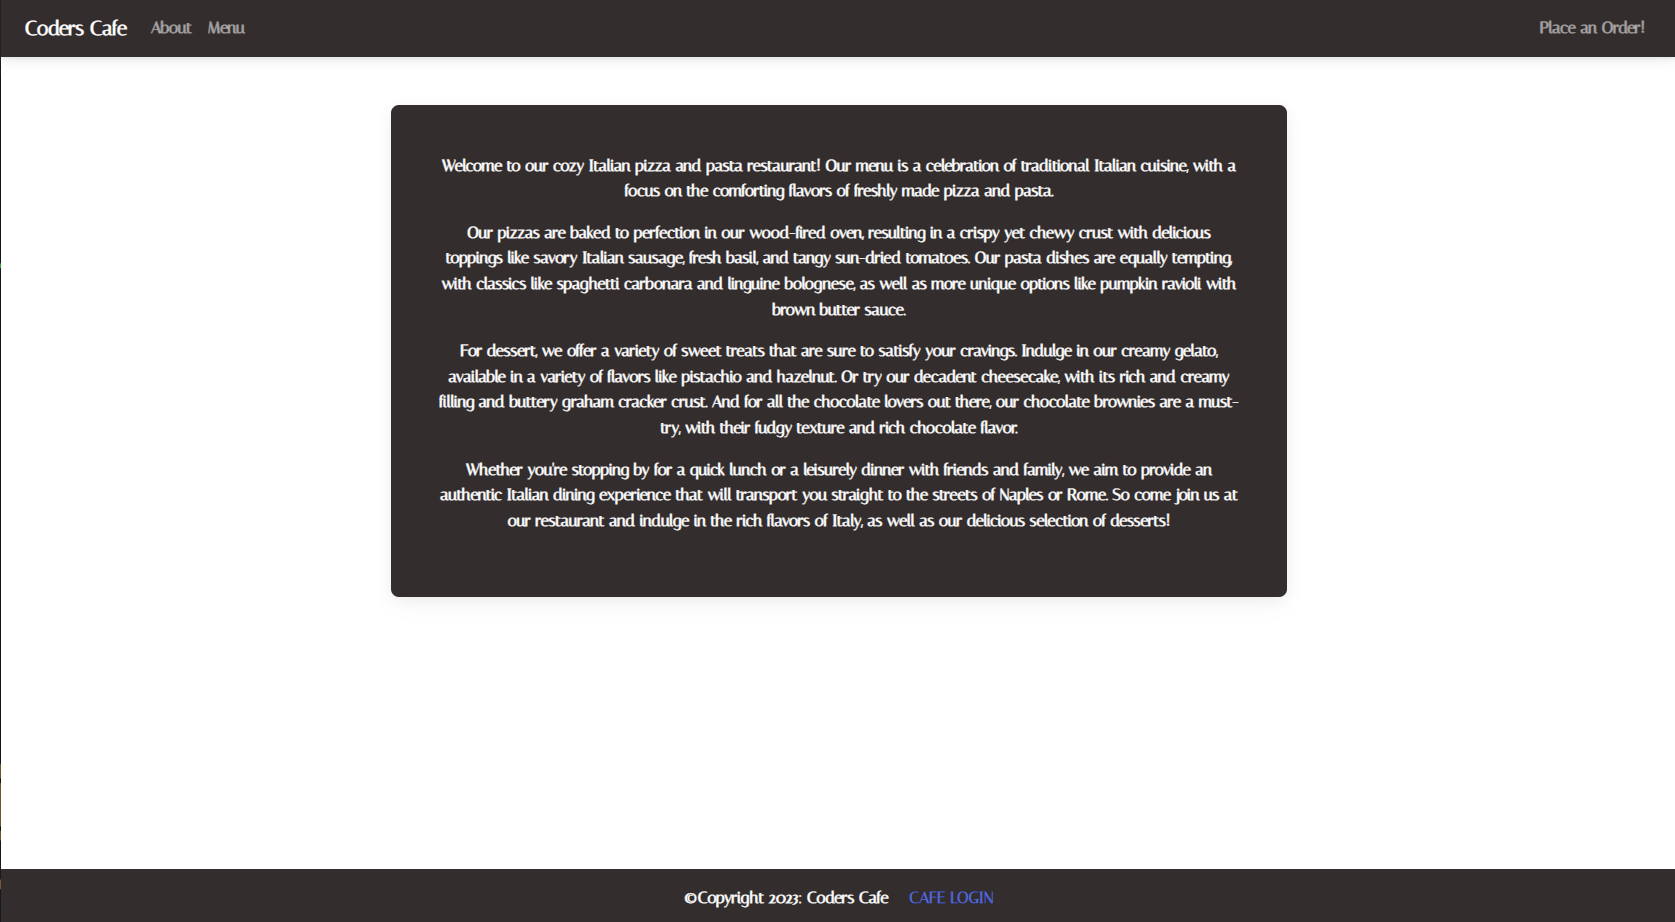
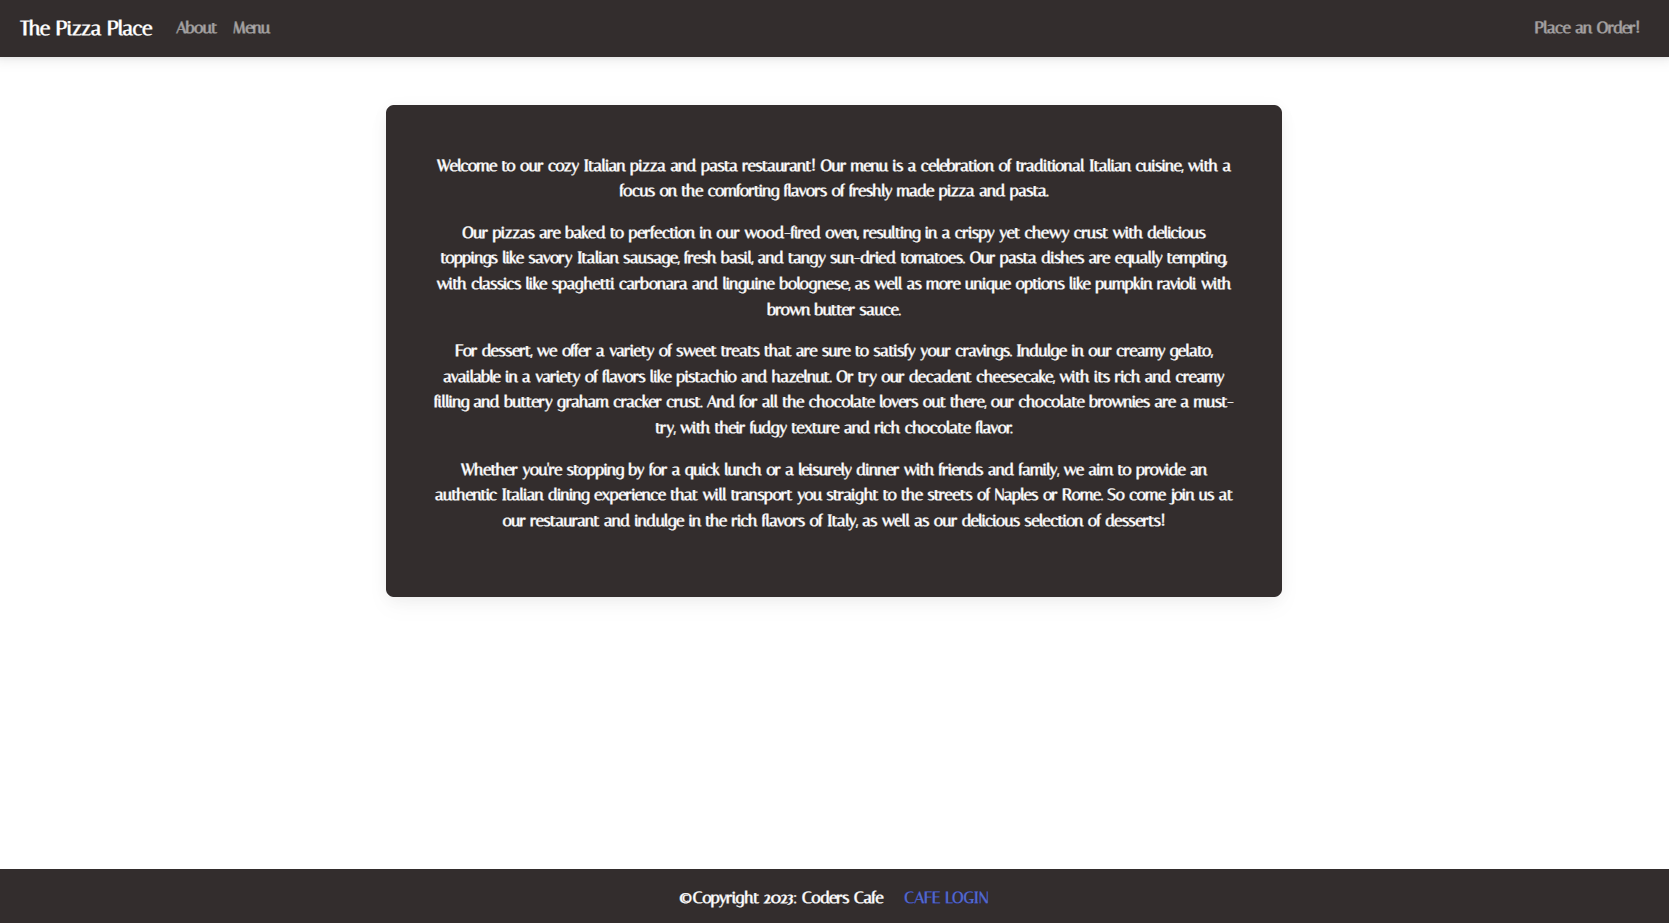
added page images to read me

diff --git a/coderscafe/customer/templates/customer/navigation.html b/coderscafe/customer/templates/customer/navigation.html
@@ -1,5 +1,5 @@
 <nav class="navbar navbar-expand-lg navbar-dark bg-dark text-light px-4 sticky-top">
-    <a class="navbar-brand" href="{% url 'index' %}">Coders Cafe</a>
+    <a class="navbar-brand" href="{% url 'index' %}">The Pizza Place</a>
     <button class="navbar-toggler" type="button" data-toggle="collapse" data-target="#navbarNav"
         aria-controls="navbarNav" aria-expanded="false" aria-label="Toggle navigation">
         <span class="navbar-toggler-icon"></span>
